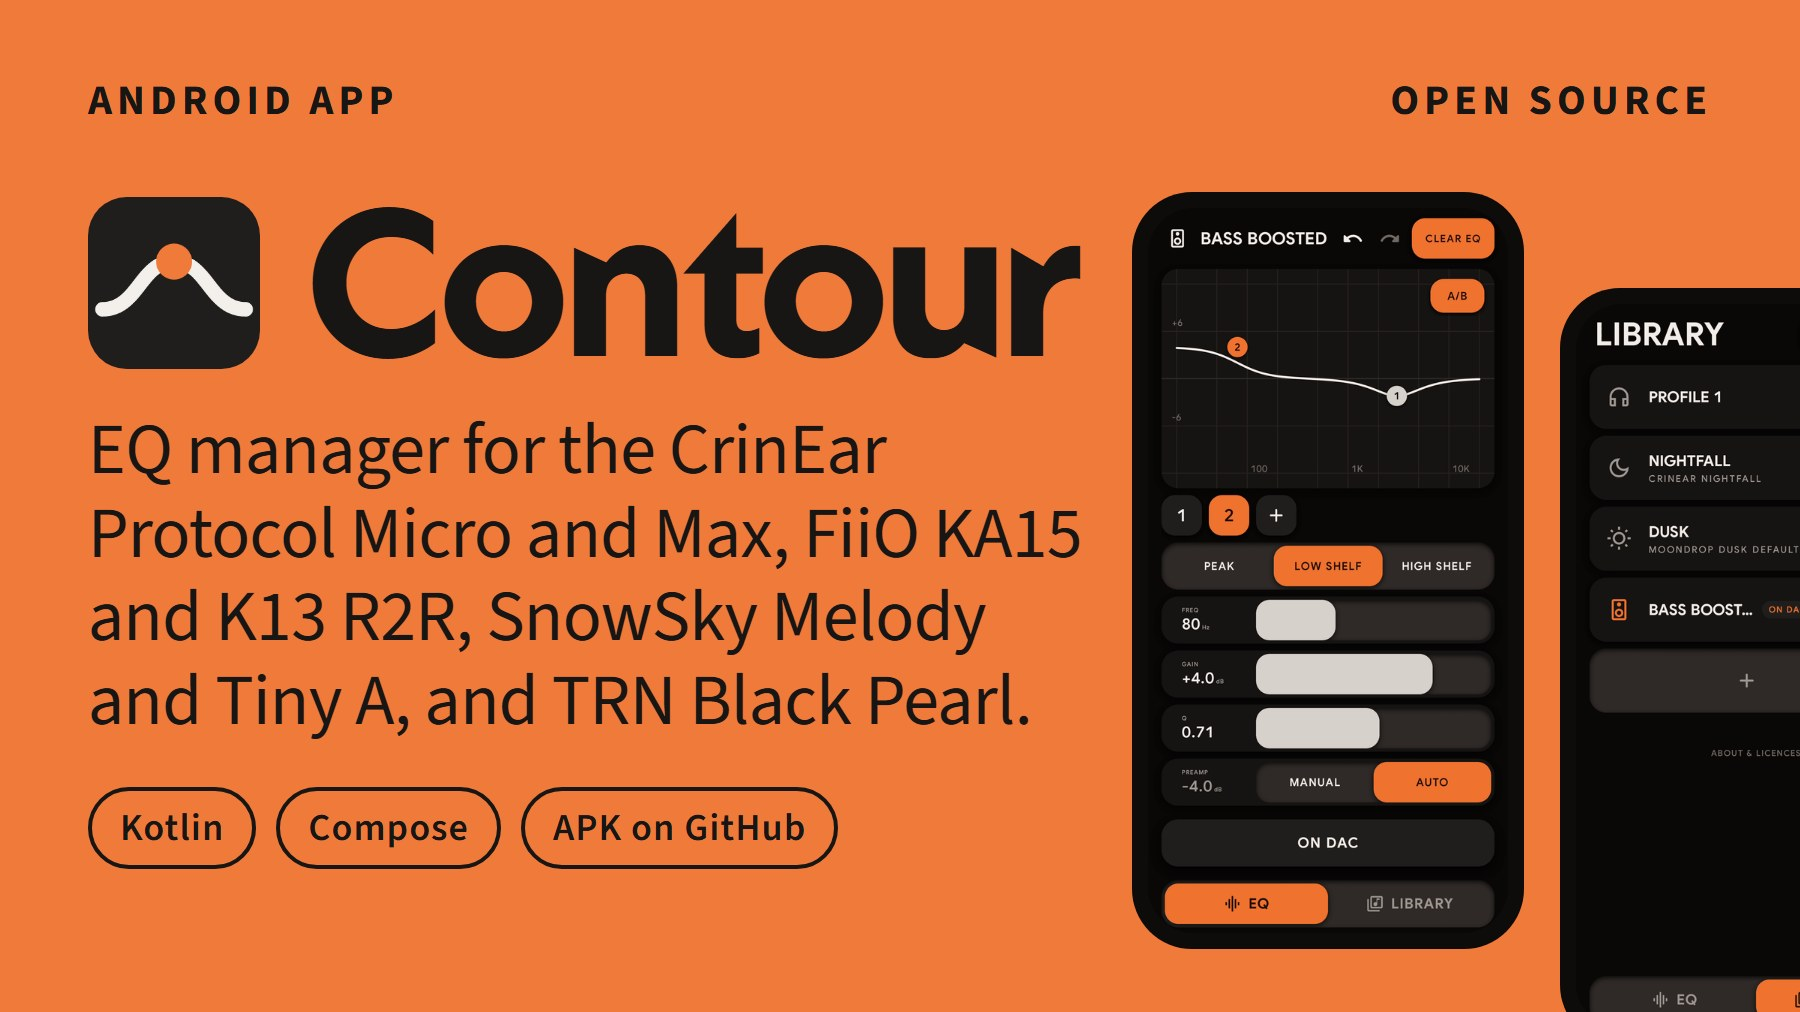
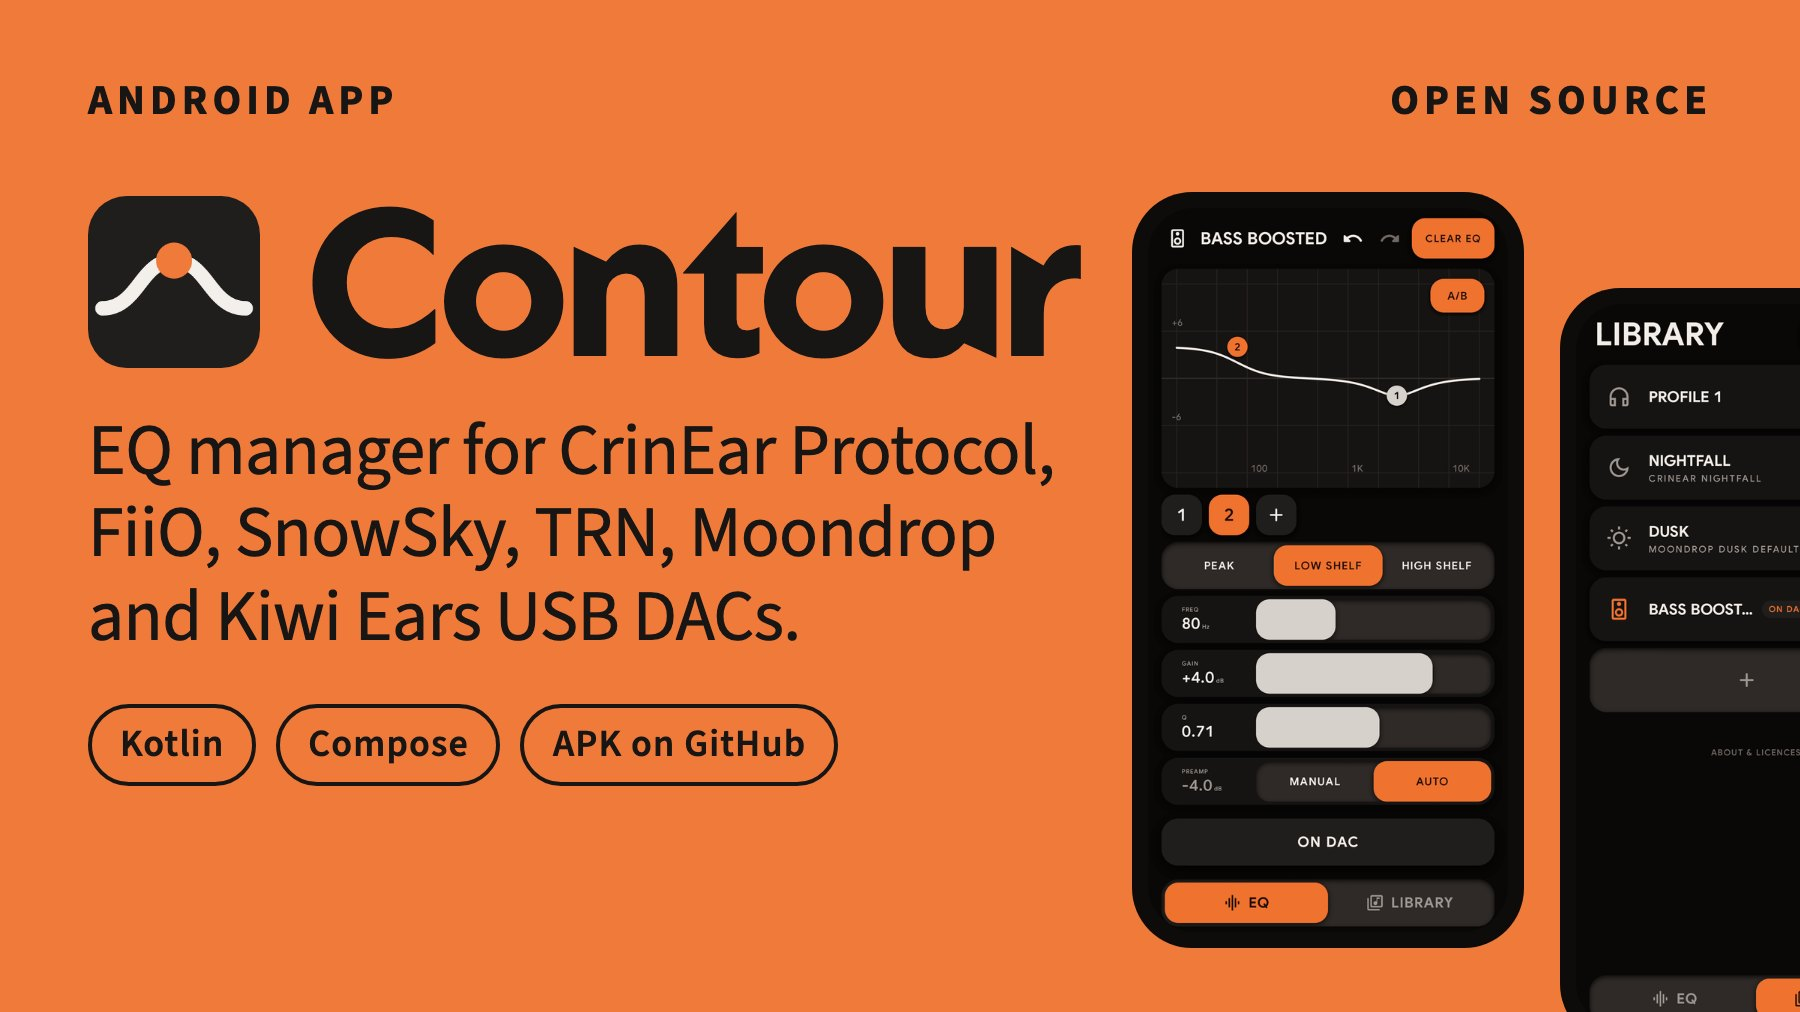
Contour board: ten DACs with Moondrop and Kiwi Ears (Contour 1.6.0)

diff --git a/README.md b/README.md
@@ -18,7 +18,7 @@
 
 **Contour** - [contoureq.app](https://contoureq.app/) · [source](https://github.com/Chronosauros/contour) · [download the APK](https://github.com/Chronosauros/contour/releases/latest)
 
-<a href="https://contoureq.app/"><img src="images/contour-board.jpg?v=9" width="100%" alt="Contour - Android app, open source. EQ manager for the CrinEar Protocol Micro and Max, FiiO KA15 and K13 R2R, SnowSky Melody and Tiny A, and TRN Black Pearl - keep profiles on your phone, send one in seconds."></a>
+<a href="https://contoureq.app/"><img src="images/contour-board.jpg?v=10" width="100%" alt="Contour - Android app, open source. EQ manager for the CrinEar Protocol Micro and Max, FiiO KA15 and K13 R2R, SnowSky Melody and Tiny A, TRN Black Pearl, Moondrop Dawn Pro 2 and Echo-A, and Kiwi Ears Allegro Mini - keep profiles on your phone, send one in seconds."></a>
 
 <br>
 
